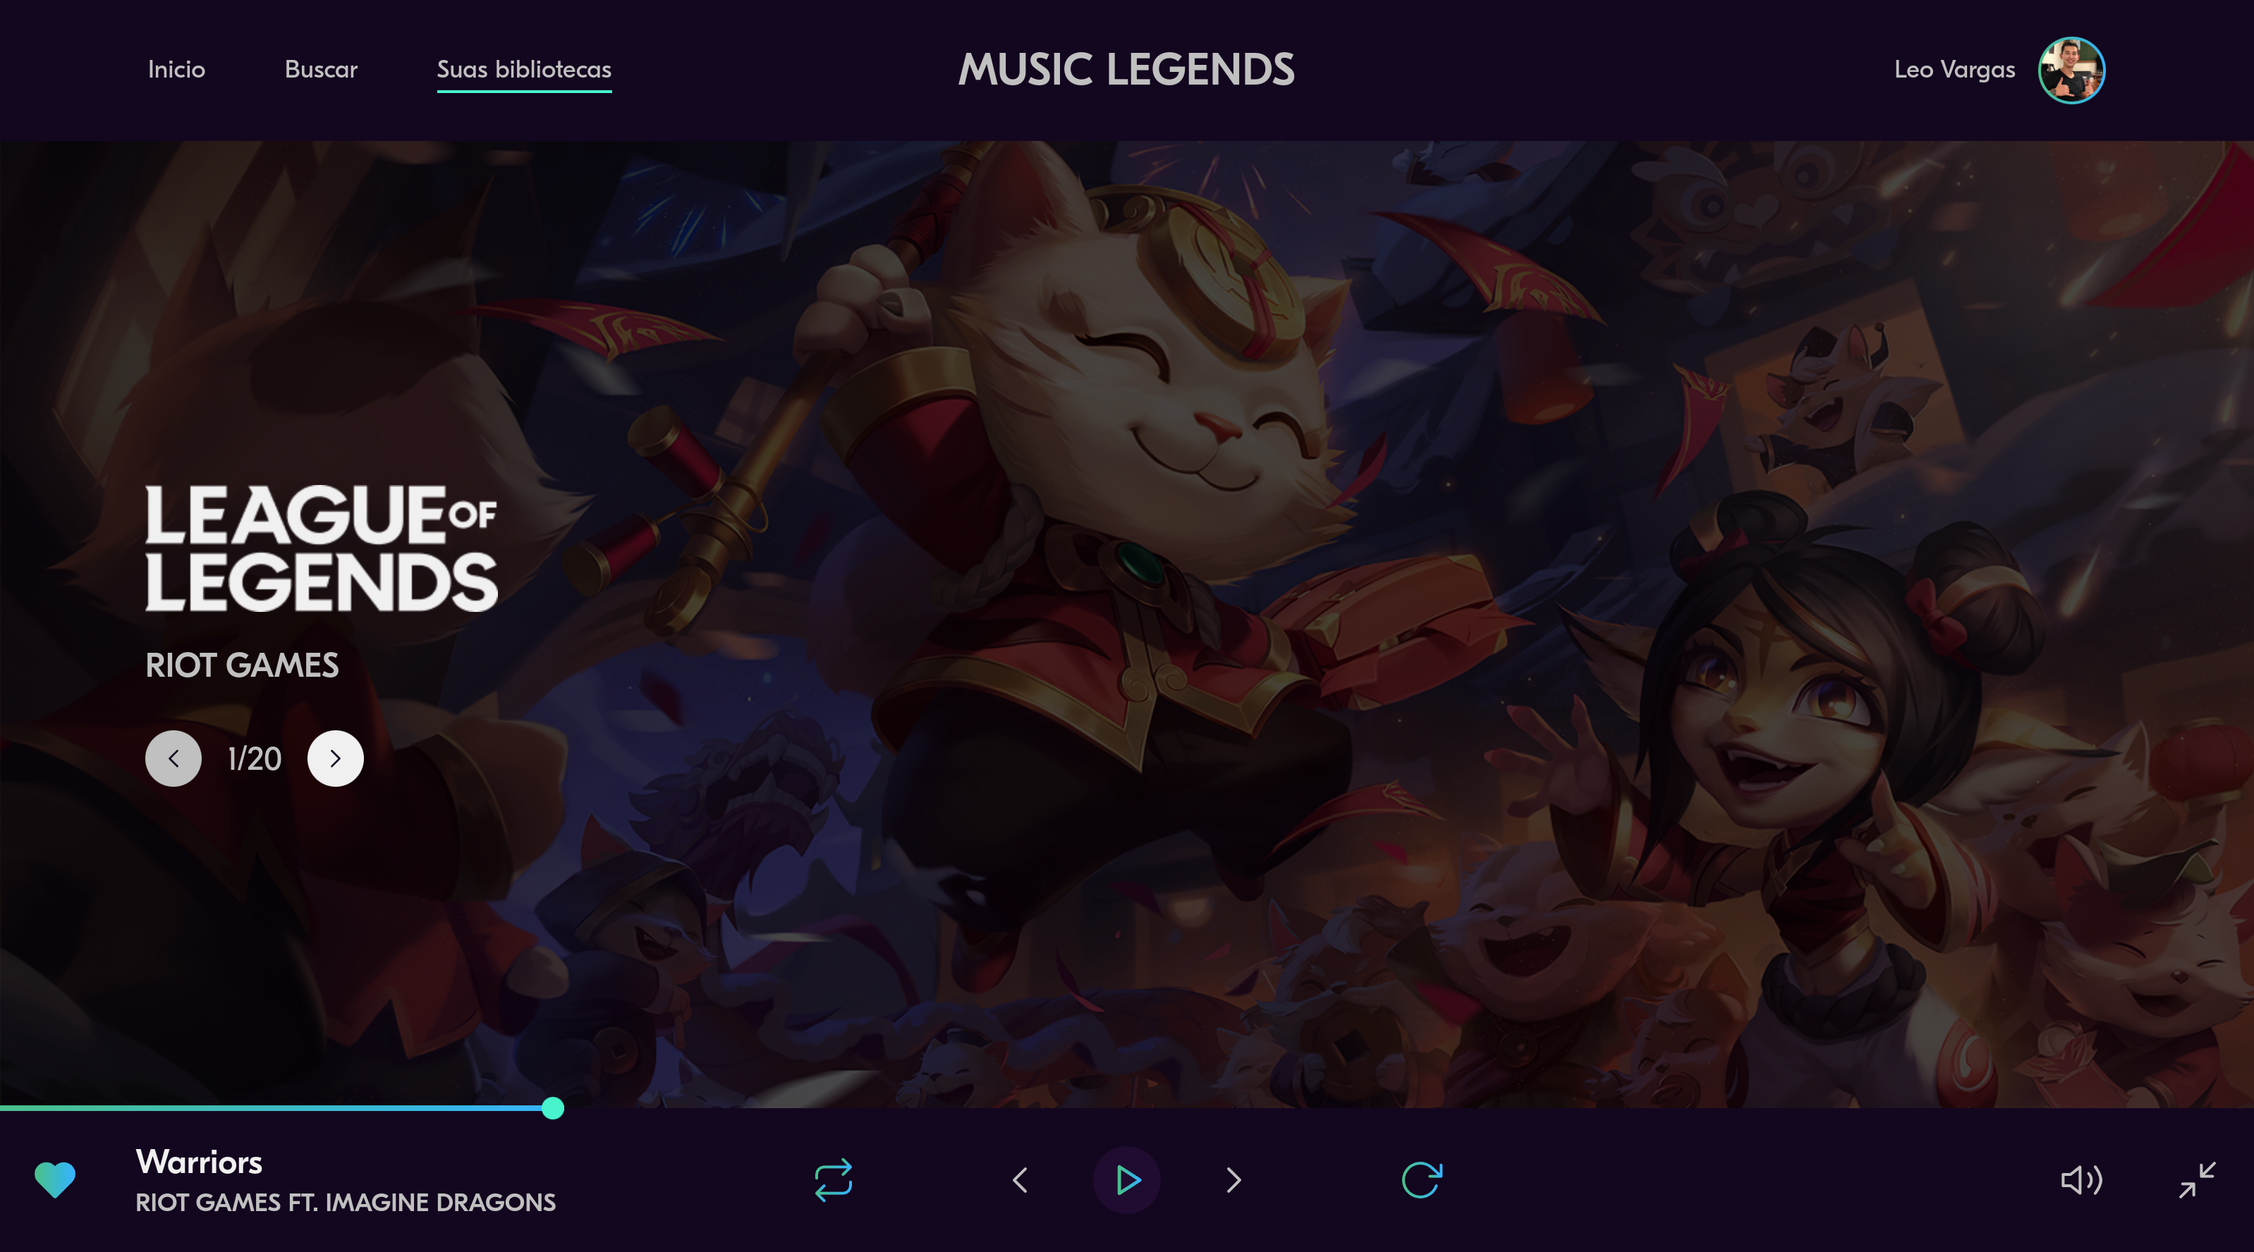
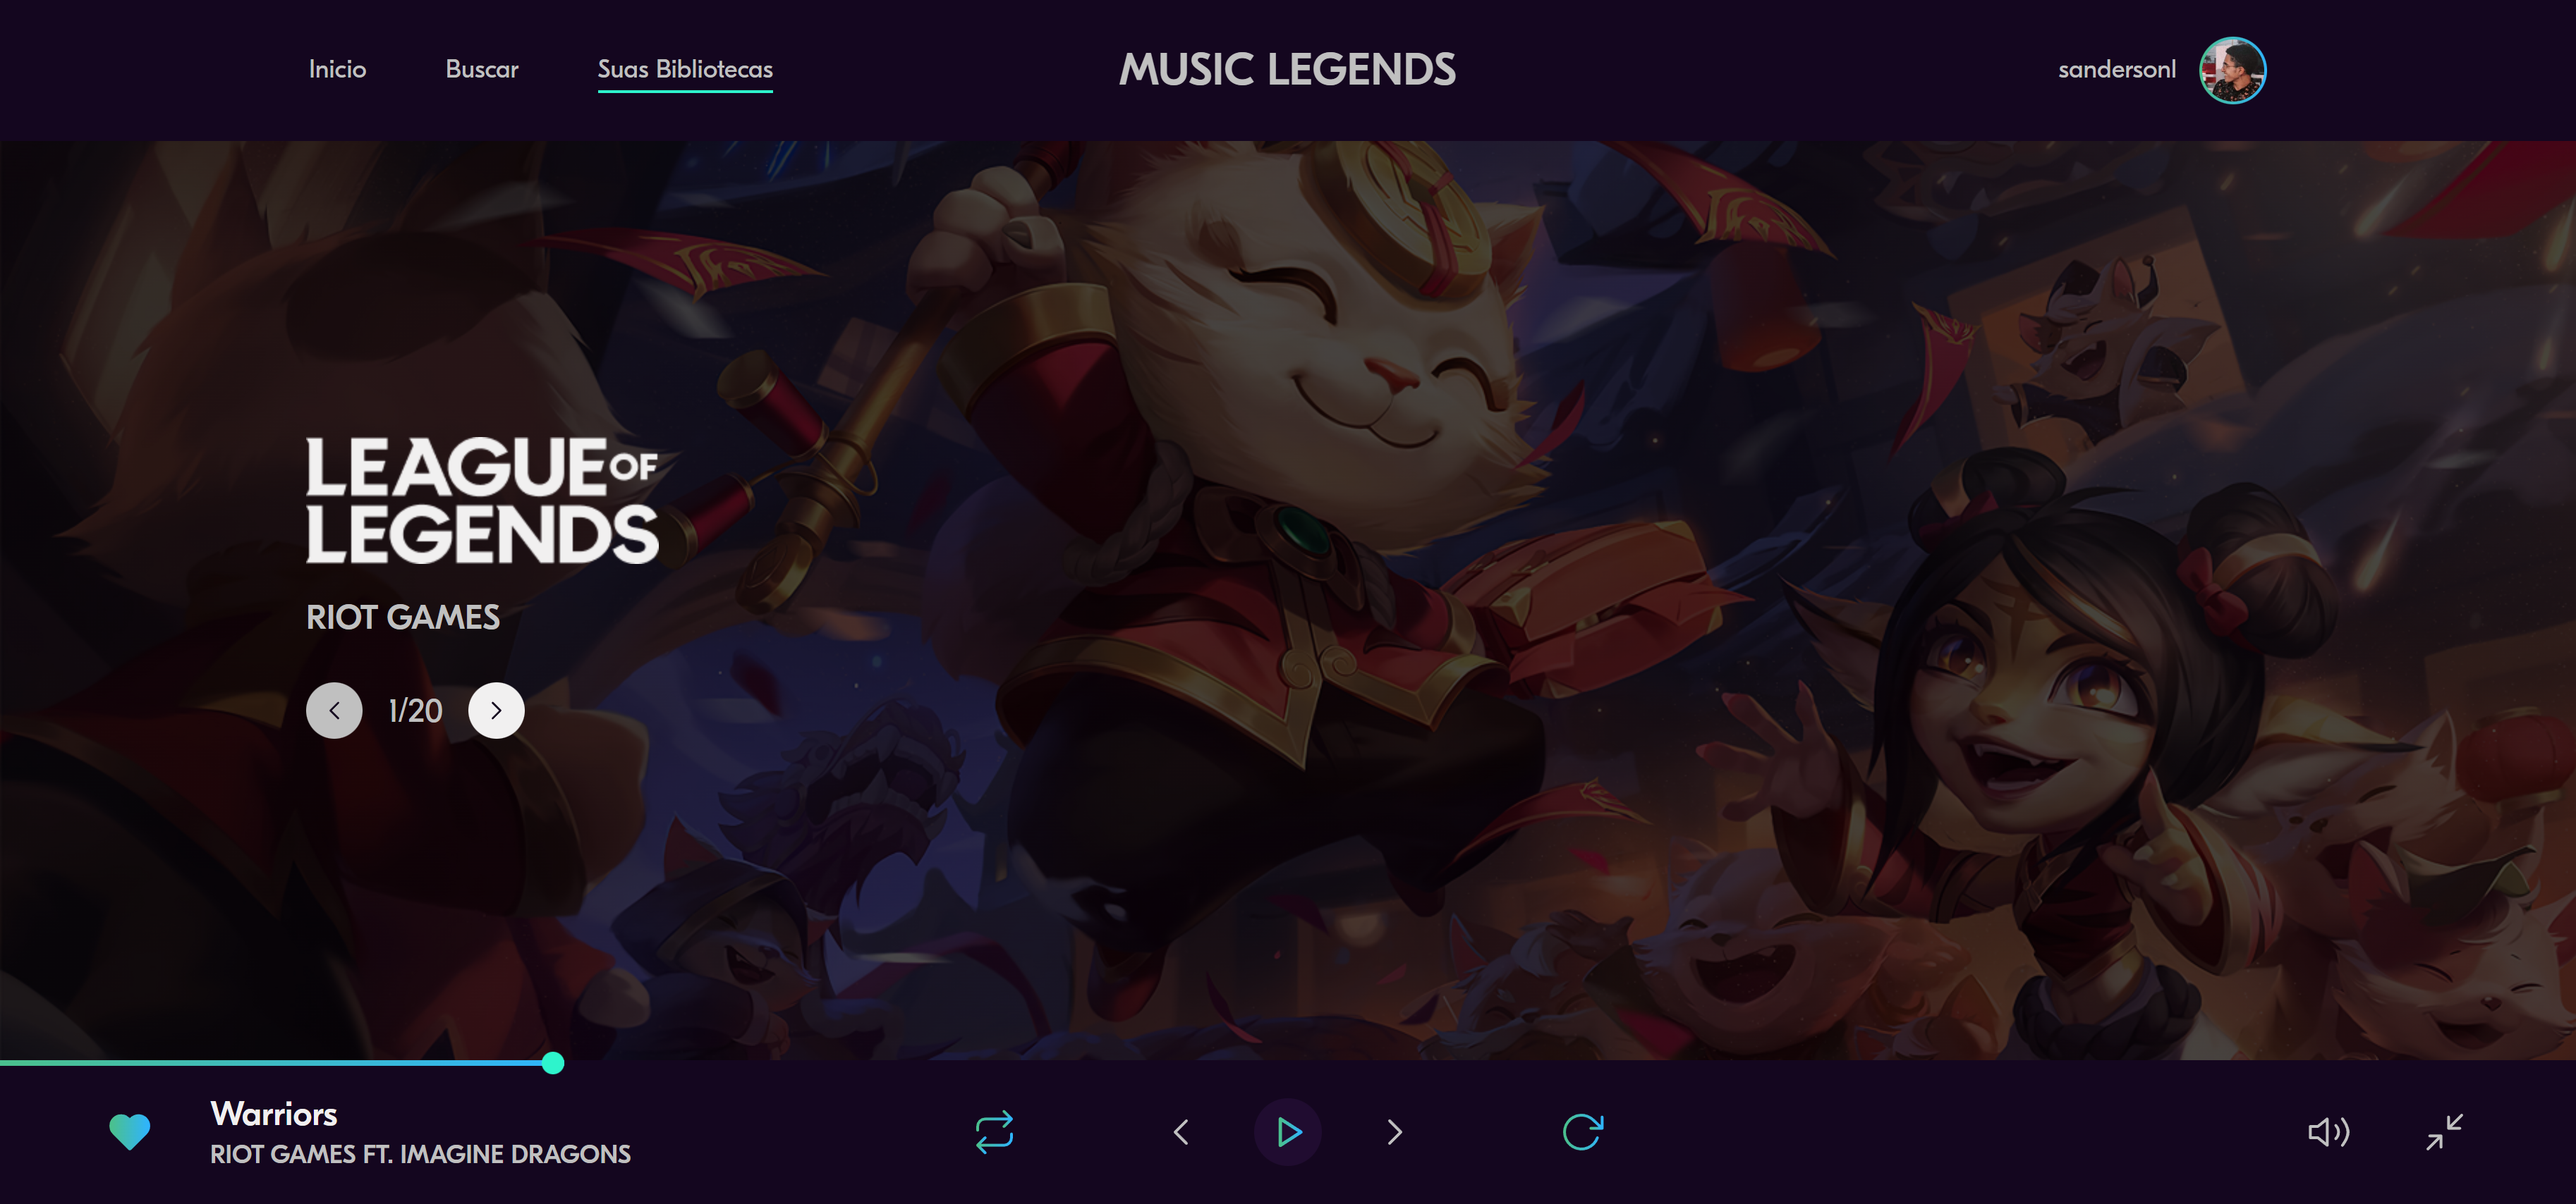
add preview

diff --git a/index.html b/index.html
@@ -41,9 +41,9 @@
           <h1>music legends</h1>
     
           <div class="user">
-            <span>Sands</span>
+            <span>sandersonl</span>
             <div class="user__avatar">
-              <img src="./assets/perfil.jpg" alt="Avatar do usuário">
+              <img src="https://github.com/sandersonl.png" alt="Avatar do usuário">
             </div>
           </div>
         </div>
